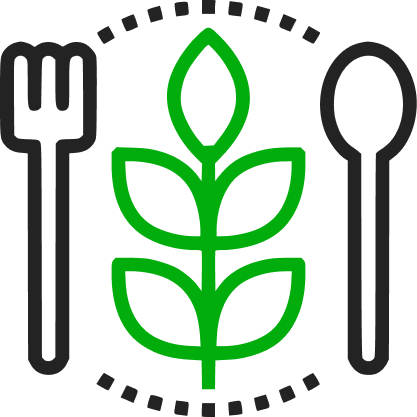
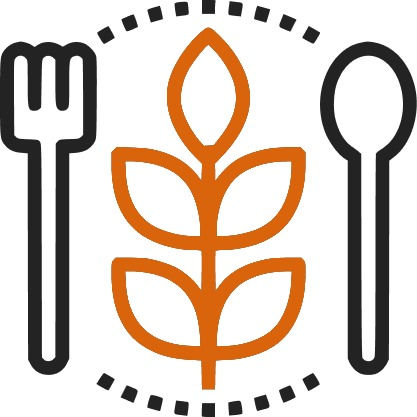
Task 6: Halloween theme on all pages

Changed region(s): [[0.2494, 0.0624, 0.7482, 0.9353]]

diff --git a/marathon2026/frontend/restaurant-frontend-app/src/app/shared/custom-components/halloween-decor/halloween-decor.component.scss b/marathon2026/frontend/restaurant-frontend-app/src/app/shared/custom-components/halloween-decor/halloween-decor.component.scss
@@ -1,0 +1,92 @@
+@use 'app/shared/styles/abstracts/colors' as color;
+
+:host {
+  position: fixed;
+  inset: 0;
+  z-index: 900;
+  overflow: hidden;
+  pointer-events: none;
+}
+
+.cobweb {
+  position: absolute;
+  bottom: 0;
+  width: 160px;
+  height: 160px;
+  opacity: 0.28;
+  background:
+    repeating-radial-gradient(
+      circle at 0 100%,
+      transparent 0 22px,
+      color.$halloween-purple-400 22px 23px
+    ),
+    repeating-conic-gradient(
+      from 0deg at 0 100%,
+      color.$halloween-purple-400 0deg 0.6deg,
+      transparent 0.6deg 15deg
+    );
+  mask-image: radial-gradient(circle at 0 100%, #000 55%, transparent 72%);
+
+  &--left {
+    left: 0;
+  }
+
+  &--right {
+    right: 0;
+    transform: scaleX(-1);
+  }
+}
+
+.bat {
+  position: absolute;
+  width: 48px;
+  height: 20px;
+  background: color.$halloween-purple-400;
+  opacity: 0.75;
+  clip-path: polygon(0 30%, 18% 0, 30% 35%, 42% 15%, 50% 40%, 58% 15%, 70% 35%, 82% 0, 100% 30%, 88% 70%, 72% 55%, 60% 75%, 50% 100%, 40% 75%, 28% 55%, 12% 70%);
+  animation: flap 1.6s ease-in-out infinite alternate;
+
+  // Kept in the outer gutters so they never sit on top of a heading or a button.
+  &--one {
+    top: 30%;
+    right: 2px;
+    scale: 0.6;
+  }
+
+  &--two {
+    top: 55%;
+    left: 2px;
+    scale: 0.55;
+    animation-delay: 0.4s;
+  }
+
+  &--three {
+    top: 72%;
+    right: 2px;
+    scale: 0.45;
+    animation-delay: 0.8s;
+  }
+}
+
+@keyframes flap {
+  to {
+    translate: 6px -10px;
+  }
+}
+
+@media (prefers-reduced-motion: reduce) {
+  .bat {
+    animation: none;
+  }
+}
+
+@media (max-width: 1100px) {
+  .bat {
+    display: none;
+  }
+
+  .cobweb {
+    width: 90px;
+    height: 90px;
+  }
+}

diff --git a/marathon2026/frontend/restaurant-frontend-app/src/app/pages/main-page/main-page.component.scss b/marathon2026/frontend/restaurant-frontend-app/src/app/pages/main-page/main-page.component.scss
@@ -19,7 +19,29 @@
   margin: 0;
   height: auto;
   max-height: 24.75rem;
-  background-color: color.$sage-100;
+  background: color.$halloween-night-gradient;
+
+  // The same moon as on the group pre-order screen.
+  &::after {
+    content: '';
+    position: absolute;
+    top: 1.5rem;
+    left: 38%;
+    width: 4.5rem;
+    height: 4.5rem;
+    border-radius: 50%;
+    background: radial-gradient(circle at 35% 35%, #fff6d8, #f3d27a 70%);
+    box-shadow: 0 0 40px rgba(243, 210, 122, 0.45);
+    pointer-events: none;
+
+    @media (max-width: 768px) {
+      top: 0.75rem;
+      left: auto;
+      right: 0.75rem;
+      width: 2.5rem;
+      height: 2.5rem;
+    }
+  }
 
   .hero-image {
     flex: 1 1 auto;
@@ -53,14 +75,14 @@
       font-weight: 500;
       font-size: 3rem;
       line-height: 3.25rem;
-      color: color.$neutral-900;
+      color: color.$neutral-0;
       margin: 0;
     }
 
     .hero-tagline {
       text-transform: uppercase;
       font-size: 0.875rem;
-      color: color.$green-800;
+      color: color.$halloween-pumpkin-100;
       margin: 0;
     }
   }
@@ -90,7 +112,7 @@
       max-width: 100%;
       order: 0;
       z-index: 1;
-      background-color: color.$sage-100;
+      background: color.$halloween-night-gradient;
       padding: 2rem 1.5rem 0.5rem 1.5rem;
     }
 

diff --git a/marathon2026/frontend/restaurant-frontend-app/src/app/shared/styles/abstracts/_colors.scss b/marathon2026/frontend/restaurant-frontend-app/src/app/shared/styles/abstracts/_colors.scss
@@ -6,26 +6,27 @@ $neutral-600: #575757;
 $neutral-700: #454444;
 $neutral-900: #232323;
 
-//new green
-$green-100: #e9ffea;
-$green-150: #C5E8C7;
-$green-300: #48AF6F;
-$green-400: #15A84C;
-$green-600: #0F7A37;
-$green-800: #0B5B29;
+// Halloween theme: the "green" tokens keep their names so components stay untouched, but they hold the pumpkin palette.
+$green-100: #ffe8d1;
+$green-150: #ffd4a8;
+$green-300: #f7964a;
+$green-400: #d9640c;
+$green-600: #b84f08;
+$green-800: #8a3b06;
 $green-gradient:  linear-gradient(
     120deg,
-    #0B5B29,
-    #0F7A37 80%
+    #b84f08,
+    #d9640c 80%
 );
 
 //Background colors
-$bg-green: #D9E5D9;
-$bg-yellow: #F7F7EC;
+$bg-green: #efe7f8;
+$bg-yellow: #fff6ec;
 
-$blue-100: #dee9ff;
-$blue-400: #0e53e9;
-$blue-500:#0C48CA;
+// Halloween theme: links and info accents are purple.
+$blue-100: #f1e8fb;
+$blue-400: #6b3fa0;
+$blue-500:#4d2a78;
 
 $orange-30:#FFFDEC;
 $orange-100: #fff2d4;
@@ -56,9 +57,9 @@ $new-violet-400:#7E4E9A;
 
 //used in code not defined in ui
 $color-gray-light: #b4b4b4;
-$color-success: #00ad0c;
+$color-success: #b84f08;
 $shadow: #c2c2c280;
-$sage-100: #D6E5D5;
+$sage-100: #e6dbf3;
 
 
 

diff --git a/marathon2026/frontend/restaurant-frontend-app/src/app/app.component.ts b/marathon2026/frontend/restaurant-frontend-app/src/app/app.component.ts
@@ -1,10 +1,11 @@
 import { Component, ChangeDetectionStrategy } from '@angular/core';
 import { RouterOutlet } from '@angular/router';
+import { HalloweenDecorComponent } from './shared/custom-components/halloween-decor/halloween-decor.component';
 import {} from './auth/components/register/register.component';
 
 @Component({
   selector: 'app-root',
-  imports: [RouterOutlet],
+  imports: [RouterOutlet, HalloweenDecorComponent],
   templateUrl: './app.component.html',
   changeDetection: ChangeDetectionStrategy.Eager,
   styleUrl: './app.component.scss',

diff --git a/marathon2026/frontend/restaurant-frontend-app/src/app/components/tables/tables/tables.component.scss b/marathon2026/frontend/restaurant-frontend-app/src/app/components/tables/tables/tables.component.scss
@@ -4,7 +4,7 @@
   display: flex;
   flex-direction: column;
   min-height: max(832px, calc(100dvh - 68px));
-  background: color.$bg-green;
+  background: color.$halloween-night-gradient;
 
   @media (min-width: 1024px) {
     flex-direction: row;
@@ -133,7 +133,7 @@
   padding: 12px;
   border: 1px solid color.$green-150;
   border-radius: 8px;
-  background: rgba(color.$green-100, 0.6);
+  background: color.$green-100;
   color: color.$neutral-900;
   font-size: 14px;
   line-height: 24px;

diff --git a/marathon2026/frontend/restaurant-frontend-app/src/app/shared/custom-components/halloween-decor/halloween-decor.component.ts b/marathon2026/frontend/restaurant-frontend-app/src/app/shared/custom-components/halloween-decor/halloween-decor.component.ts
@@ -1,0 +1,11 @@
+import { ChangeDetectionStrategy, Component } from '@angular/core';
+
+/** Purely decorative Halloween layer over every page: it never takes clicks and is hidden from screen readers. */
+@Component({
+  selector: 'app-halloween-decor',
+  templateUrl: './halloween-decor.component.html',
+  styleUrl: './halloween-decor.component.scss',
+  changeDetection: ChangeDetectionStrategy.Eager,
+  host: { 'aria-hidden': 'true' },
+})
+export class HalloweenDecorComponent {}

diff --git a/marathon2026/frontend/restaurant-frontend-app/src/app/pages/menu-page/menu-page.component.scss b/marathon2026/frontend/restaurant-frontend-app/src/app/pages/menu-page/menu-page.component.scss
@@ -30,14 +30,14 @@
       font-size: 1rem;
       font-weight: 400;
       margin-bottom: 0.5rem;
-      color: color.$color-success;
+      color: color.$halloween-pumpkin-400;
     }
 
     .hero-title {
       font-size: 3rem;
       font-weight: 600;
       line-height: 1.2;
-      color: color.$color-success;
+      color: color.$halloween-pumpkin-400;
     }
   }
 }

diff --git a/marathon2026/frontend/restaurant-frontend-app/src/app/pages/reporting-dashboard/reporting-dashboard.component.scss b/marathon2026/frontend/restaurant-frontend-app/src/app/pages/reporting-dashboard/reporting-dashboard.component.scss
@@ -7,7 +7,11 @@
   align-items: center;
   padding: 2rem;
   background-position: center;
-  background-color: color.$bg-green;
+  background: color.$halloween-night-gradient;
+
+  h3 {
+    color: color.$neutral-0;
+  }
 
   @media (max-width: 540px) {
     padding: 0.5rem;

diff --git a/marathon2026/frontend/restaurant-frontend-app/src/app/pages/waiter-dashboard/waiter-dashboard.component.scss b/marathon2026/frontend/restaurant-frontend-app/src/app/pages/waiter-dashboard/waiter-dashboard.component.scss
@@ -7,7 +7,11 @@
   align-items: center;
   padding: 2rem;
   background-position: center;
-  background-color: color.$bg-green;
+  background: color.$halloween-night-gradient;
+
+  h3 {
+    color: color.$neutral-0;
+  }
 
   @media (max-width: 540px) {
     padding: 0.5rem;

diff --git a/marathon2026/frontend/restaurant-frontend-app/src/app/components/location-overview/location-overview.component.scss b/marathon2026/frontend/restaurant-frontend-app/src/app/components/location-overview/location-overview.component.scss
@@ -11,7 +11,7 @@
   justify-content: space-between;
   gap: 6rem;
   margin-bottom: 3.75rem;
-  background-color: color.$sage-100;
+  background: color.$halloween-night-gradient;
   position: relative;
   min-height: 58vh;
 

diff --git a/marathon2026/frontend/restaurant-frontend-app/src/app/pages/reservation-dashboard/reservation-dashboard.component.scss b/marathon2026/frontend/restaurant-frontend-app/src/app/pages/reservation-dashboard/reservation-dashboard.component.scss
@@ -7,7 +7,11 @@
 
   padding: 2rem;
 
-  background-color: color.$bg-green;
+  background: color.$halloween-night-gradient;
+
+  h3 {
+    color: color.$neutral-0;
+  }
 
   @media (max-width: 540px) {
     padding: 1rem;

diff --git a/marathon2026/frontend/restaurant-frontend-app/src/app/auth/components/profile/profile.component.scss b/marathon2026/frontend/restaurant-frontend-app/src/app/auth/components/profile/profile.component.scss
@@ -6,7 +6,11 @@
   align-items: center;
   min-height: 92px;
   padding: 0 40px;
-  background: color.$bg-green;
+  background: color.$halloween-night-gradient;
+
+  h3 {
+    color: color.$neutral-0;
+  }
 
 }
 
